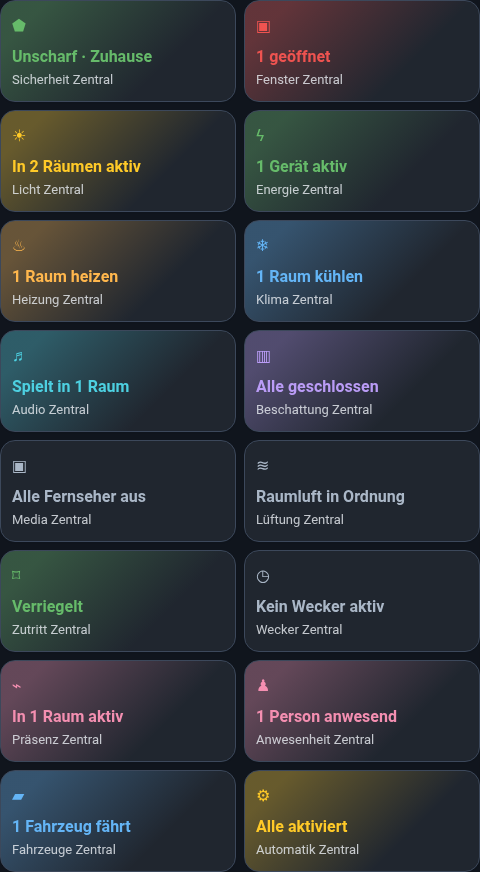
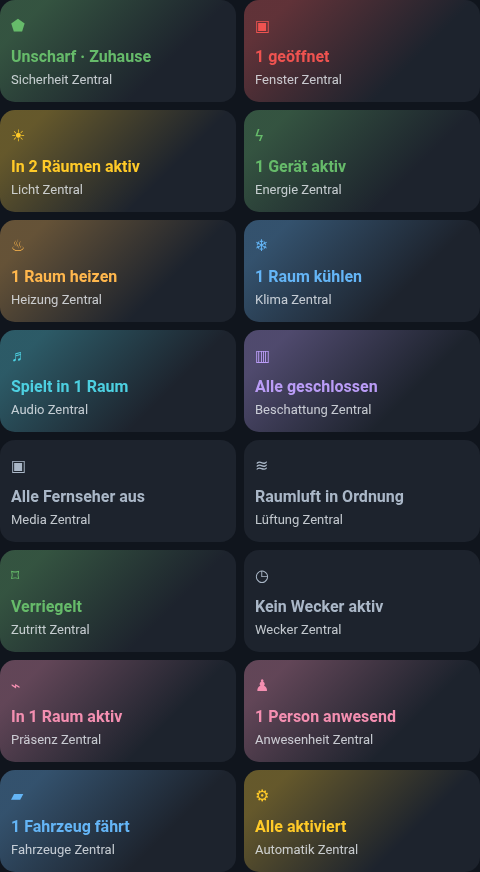
Add files via upload

diff --git a/dist/central-overview-card.js b/dist/central-overview-card.js
@@ -1,4 +1,4 @@
-/* Central Overview Card v1.4.0 | MIT | Home Assistant Lovelace | no dependencies */
+/* Central Overview Card v1.4.3 | MIT | Home Assistant Lovelace | no dependencies */
 (() => {
   'use strict';
   const TAG = 'central-overview-card';
@@ -234,7 +234,7 @@
 
   const CARD_CSS = `
     :host {display:block;}
-    ha-card {background:none; border:0; box-shadow:none; padding:0; overflow:visible;}
+    ha-card {background:transparent; border:0; box-shadow:none; padding:0; overflow:visible;}
     .grid {display:grid; grid-template-columns:repeat(var(--co-columns, 2),minmax(0,1fr));
       gap:var(--co-gap,8px);}
     button.tile {box-sizing:border-box; appearance:none; font:inherit;
@@ -242,27 +242,28 @@
       display:grid; grid-template-rows:30px minmax(26px,auto) 18px;
       align-content:center; justify-items:start; row-gap:1px;
       padding:10px 11px; min-width:0; width:100%; min-height:102px;
-      border:1px solid var(--ha-card-border-color,var(--divider-color,rgba(0,0,0,0.08)));
+      /* Keine farbigen Linien rechts/unten: weder Themen-Rahmen noch Schatten. */
+      border:0;
       overflow:hidden;
-      background-clip:padding-box;
       border-radius:var(--ha-card-border-radius,12px);
       color:var(--primary-text-color);
       background:var(--ha-card-background,var(--card-background-color,#fff));
-      box-shadow:var(--ha-card-box-shadow,0 1px 2px rgb(0 0 0 / 3%));
+      box-shadow:none;
       cursor:default;
       transition:box-shadow .18s ease, border-color .18s ease, background .18s ease, transform .18s ease;
     }
     button.tile.clickable {cursor:pointer;}
     button.tile.clickable:hover {transform:translateY(-1px);
-      box-shadow:0 3px 10px rgb(0 0 0 / 7%);
-      border-color:var(--ha-card-border-color,var(--divider-color,rgba(0,0,0,0.08)));}
+      box-shadow:none;}
     button.tile.clickable:active {transform:translateY(0);}
     button.tile:focus-visible {outline:2px solid var(--primary-color); outline-offset:2px;}
     /* Original v1.2 gradient, exactly: 135deg, 32% through 14%, transparent by 68%. */
-    button.tile.colored {background:linear-gradient(135deg,
-      color-mix(in srgb,var(--tile-color) 32%, transparent) 0%,
-      color-mix(in srgb,var(--tile-color) 32%, transparent) 14%,
-      transparent 68%),var(--ha-card-background,var(--card-background-color,#fff));}
+    button.tile.colored {background:
+      linear-gradient(135deg,
+        color-mix(in srgb,var(--tile-color) 32%, transparent) 0%,
+        color-mix(in srgb,var(--tile-color) 32%, transparent) 14%,
+        transparent 68%),
+      var(--ha-card-background,var(--card-background-color,#fff));}
     .icon {box-sizing:border-box; height:30px; width:30px; display:flex;
       align-items:center; justify-content:flex-start;
       color:var(--tile-fg,var(--secondary-text-color));}

diff --git a/README.md b/README.md
@@ -4,7 +4,7 @@ Eine eigenständige Lovelace-Karte mit **16 frei konfigurierbaren Status-Kacheln
 
 ![Vorschau mit frei erfundenen Beispieldaten](images/preview.png)
 
-### Design in v1.4.0 – ursprünglicher Farbverlauf, angenehme Höhe
+### Design in v1.4.3 – ursprünglicher Farbverlauf, angenehme Höhe
 
 - Der **ursprüngliche Farbverlauf** ist zurück (135°; HA-Theme-Farbe bei 32 % von 0–14 %, auslaufend bis 68 %), identisch zur v1.2-Darstellung.
 - Kachel-Mindesthöhe jetzt **102 px** statt 86 px (v1.3) oder 111 px (v1.2) – ein ausgewogener Mittelweg.
@@ -80,7 +80,7 @@ LICENSE
 
 Über **Add file → Upload files → Commit changes** kannst du Dateien hochladen. GitHub lädt versteckte `.github`-Ordner über Drag-and-drop je nach Browser unterschiedlich zuverlässig hoch; kontrolliere, dass `.github/workflows/validate.yml` vorhanden ist. Alternativ lege sie in GitHub per **Add file → Create new file** mit dem Pfad `.github/workflows/validate.yml` an.
 
-Erstelle danach optional unter **Releases → Draft a new release** ein Release, z. B. `v1.4.0`. Dieses ist für die öffentliche Verteilung und Updates sinnvoll. Anschließend das Repository in HACS/Marketplace als benutzerdefiniertes Repository vom Typ **Dashboard** hinzufügen.
+Erstelle danach optional unter **Releases → Draft a new release** ein Release, z. B. `v1.4.3`. Dieses ist für die öffentliche Verteilung und Updates sinnvoll. Anschließend das Repository in HACS/Marketplace als benutzerdefiniertes Repository vom Typ **Dashboard** hinzufügen.
 
 ## Installation
 

diff --git a/GITHUB-UPLOAD.md b/GITHUB-UPLOAD.md
@@ -7,7 +7,7 @@
 3. Im neuen GitHub-Repository **Add file → Upload files** wählen.
 4. **Alle Dateien und Unterordner aus dem entpackten Verzeichnis** hochladen, nicht das ZIP und nicht nur die `.js`-Datei. Bei GitHub muss `hacs.json` direkt im Hauptverzeichnis liegen und `dist/central-overview-card.js` vorhanden sein.
 5. Auf **Commit changes** klicken.
-6. Unter **Releases → Draft a new release** optional ein Release mit Tag `v1.4.0` erstellen. Ein Release ist für Updates und eine spätere öffentliche Veröffentlichung sinnvoll.
+6. Unter **Releases → Draft a new release** optional ein Release mit Tag `v1.4.3` erstellen. Ein Release ist für Updates und eine spätere öffentliche Veröffentlichung sinnvoll.
 7. In Home Assistant HACS / Marketplace öffnen, benutzerdefiniertes Repository hinzufügen: die URL `https://github.com/DEIN-NAME/lovelace-central-overview-card` angeben und Kategorie **Dashboard** wählen.
 8. Nach Installation das Dashboard neu laden. Unter **Dashboard bearbeiten → Karte hinzufügen** `Zentralübersicht (universell)` wählen. Dann alles im **visuellen Editor** einstellen.
 
